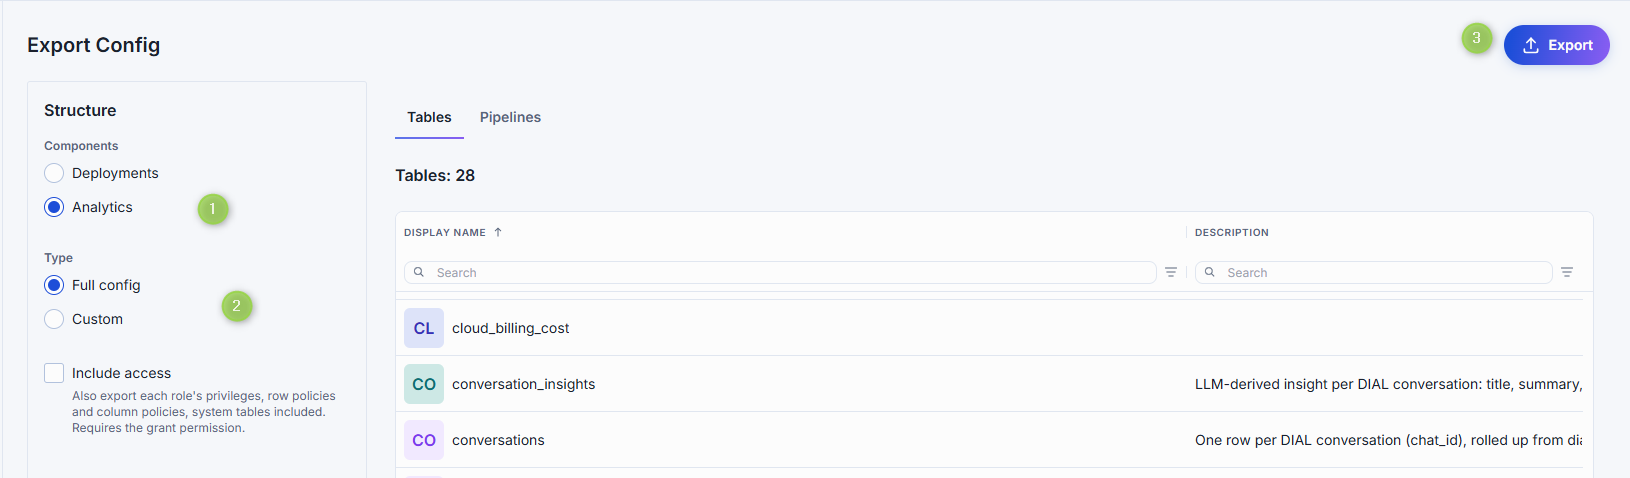
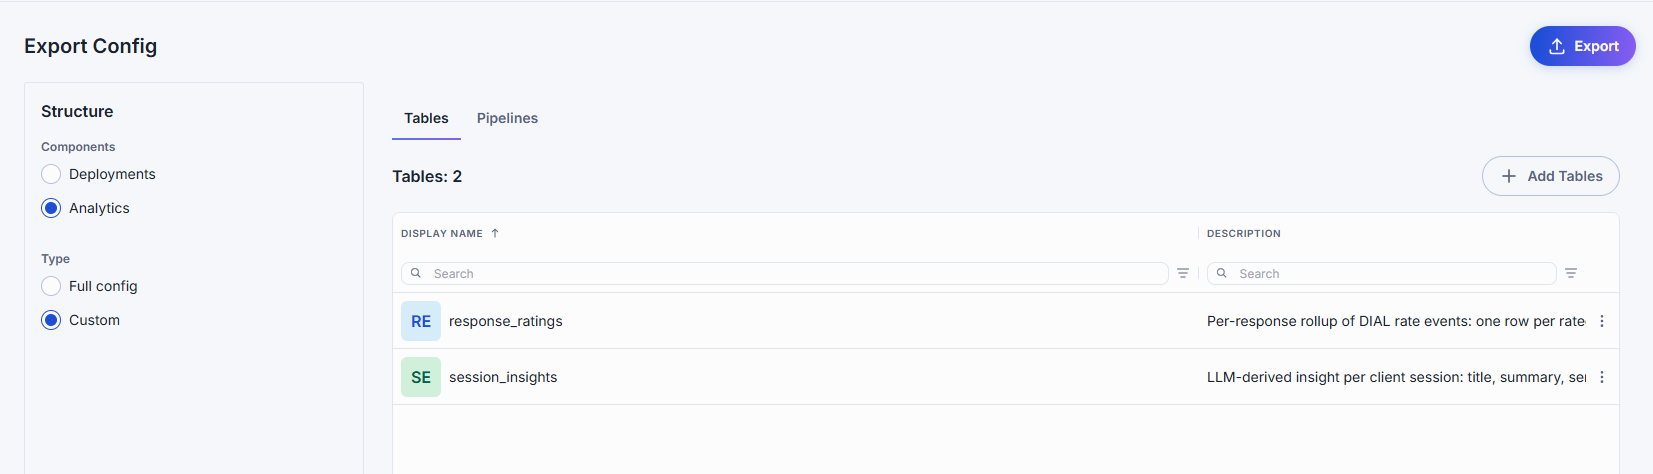
update export import section

diff --git a/docs_v2/6.administering-dial-new/1.config-backup-and-global-settings.md b/docs_v2/6.administering-dial-new/1.config-backup-and-global-settings.md
@@ -3,161 +3,203 @@ title: "Back up, restore, and set global properties"
 type: how-to
 persona: admin
 component: admin
-last_verified: 2026-10-19
+last_verified: 2026-11-26
 owner: "@dial-docs-team"
 ---
 
 # Back up, restore, and set global properties
 
-This guide covers the system-wide tasks an administrator runs from the DIAL Admin home page: exporting
-configuration for backup or migration, importing it into another environment, defining global
-interceptors, and pinning the DIAL Core version. It is for administrators with write access to DIAL
-Admin. For an orientation to the panel, start with the [Admin Panel overview](0.index.md).
+This guide explains how full administrators use the DIAL Admin home page to transfer deployment and
+Analytics configuration and set global properties. For an orientation to the panel, start with the
+[Admin Panel overview](0.index.md).
 
-Configuration import/export and manual Core-version selection depend on the optional Admin Backend.
-With direct Core access alone, those controls are unavailable; global properties still use Core
-directly. Deployments and Analytics can offer their own import/export scopes when enabled, even
-without Admin Backend. See [Optional services](../7.services/9.admin/2.configuration/1.frontend.md#optional-services)
-for the connections required by each scope. For backups through Core itself, see the
-[Configuration API export](../7.services/1.core/1.configuration/1.configuration-api.md#export-the-configuration).
+The Deployments and Analytics transfer scopes require their respective services to be enabled. See
+[Optional services](../7.services/9.admin/2.configuration/1.frontend.md#optional-services) for the
+required connections.
+
+:::caution
+These transfers cover the selected service configurations, not a complete DIAL backup. For Core
+resources, see the [Configuration API export](../7.services/1.core/1.configuration/1.configuration-api.md#export-the-configuration).
+For a broader backup strategy, see [Backup and restore](../5.operating-dial/7.production-readiness/4.backup-and-restore.md).
+:::
 
 ## Export configuration
 
-Use **Export Config** to download the full or selected configuration of the current instance — useful
-for backups, audit snapshots, or sharing with teammates.
+Use **Export Config** to download deployment or Analytics configuration for backup or migration.
+When more than one scope is enabled, select it under **Components**. Otherwise, the available scope
+opens without a component selector.
 
 ![Export Config action on the home page](img/export-config.png)
 
 ### Export deployments
 
-Export the configuration of selected deployments (model servings, images, MCP, interceptor, and
-adapter containers).
+Export selected model servings, MCP containers, interceptor containers, adapter containers,
+application containers, and images.
 
-1. Click **Export config** and select **Deployments** under **Components**.
-2. Add the deployments you want to export. You can choose to ignore or include the dependencies the
-   selected resources need to operate.
+1. Click **Export Config** and, if shown, select **Deployments** under **Components**.
+2. Select a deployment type, click its **Add** button, and select the resources to export. Repeat for
+   other deployment types. To remove a resource from the selection, use its actions menu.
 3. Click **Export** to open the **Export File Preview** window.
-   - Enable **Include secrets** to include secret values (keys, passwords, and similar) in the
-     deployment configuration.
+   - Enable **Include secrets** to include secret values, such as keys and passwords.
    - Enable **Include global firewall** to include the
-     [global domain whitelist](./3.deployments/3.images.md#global-firewall) in the configuration file.
-4. Click **Export** to download a `.zip` archive.
+     [global domain whitelist](./3.deployments/3.images.md#global-firewall).
+4. Click **Prepare file** to download a `.zip` archive.
 
 ![Export deployments configuration](img/export-deployments-config.png)
 
-### Export entities, Builders, and access management
+### Export analytics
 
-Export the configuration of selected entities (models, applications, toolsets, interceptors,
-routes), Builders (application runners, adapters, interceptor templates), and access
-management configuration (API keys and roles).
+Export Analytics table definitions, schemas, and pipelines as a JSON bundle. The bundle does not
+contain table data or access grants. Required table and pipeline dependencies are included automatically.
+System tables are listed by name and must already exist in the target environment.
 
-1. Click **Export config** and select **Entities, Builders, Access Management** under **Components**.
-2. Choose the export format:
-   - **DIAL Admin Archive** — a `.zip` archive.
-   - **DIAL Core JSON File** — a single `.json` file compatible with
-     [DIAL Core](https://github.com/epam/ai-dial-core?tab=readme-ov-file#configuration-%EF%B8%8F).
-3. Choose the export type:
-   - **Full** — use the **Resources** toggles to enable or disable specific resource categories.
-   - **Custom** — use the resource tabs to manually select which entities to include. With a custom
-     export, you can include or ignore dependencies (adapters, interceptors, applications,
-     application runners, and similar) that the selected resources need.
-4. Use **Topics** to filter resources by associated topic.
-5. Click **Export** to open the **Export File Preview** window, where you can preview your selections
-   and any included dependencies, and enable **Include secrets**.
-6. Review your selection and click **Export** to download a `.zip` archive.
+1. Click **Export Config** and, if shown, select **Analytics** under **Components**.
+2. Select **Full config** to export all exportable resources, or **Custom** to select resources.
+   For a custom export, open **Tables** or **Pipelines**, click its **Add** button, and select
+   resources. Use a resource's actions menu to remove it from the selection.
+3. Click **Export** and review the preview:
+   - **Objects**: selected objects and their included dependencies, with reasons for inclusion.
+   - **Required system tables**: system tables that must exist in the target environment.
+   - **Skipped**: objects excluded from the export and the reasons.
+4. Click **Export** to download the JSON bundle. The export button becomes available after the
+   service accepts the preview.
 
-![Export entities configuration](img/export-entities-config.png)
+![Export Analytics configuration](img/export-analytics.png)
 
 ## Import configuration
 
-Use **Import Config** to upload a configuration file when migrating between environments or restoring
-a backup.
+Use **Import Config** to restore or migrate deployment or Analytics configuration. If more than one
+scope is enabled, choose it under **Components**. Otherwise, the available scope opens directly.
 
 ![Import Config action on the home page](img/import-config.png)
 
-1. Click **Import Config** to open the import screen.
-2. In the **Files** section, make the following selections:
+:::note
+Import and export require full administrator access and at least one enabled supporting service.
+:::
 
-   ![Import configuration file selection](img/import-config-files.png)
+### Import deployments
 
-   - **Components** — choose to import the configuration of deployments (model servings, images, MCP,
-     interceptor, and adapter containers), entities (models, applications, toolsets, interceptors,
-     routes), Builders (application runners, adapters, interceptor templates), and access management
-     (API keys and roles).
-   - **Conflict resolution** — choose a strategy for conflicts between imported and existing files:
-     - **Override** — any resource in the archive that matches an existing one by identifier replaces
-       it.
-     - **Skip** — any resource in the archive that matches an existing one by identifier is ignored,
-       and the current resource is unchanged.
-   - **File type** — choose to import a DIAL Core `.json` file or a `.zip` archive.
-3. Add a file or archive in the **Files** section, then continue to the **Configuration** step to
-   preview all resources being imported. Resources with validation errors (such as schema
-   mismatches or uniqueness conflicts) are flagged in the preview before import begins. When the
-   archive includes a global firewall configuration, firewall validation errors are grouped by
-   domain for easier review.
+1. Click **Import Config** and, if shown, select **Deployments** under **Components**.
+2. Choose a **Conflict resolution** strategy:
+   - **Override** replaces matching resources with the imported versions.
+   - **Skip** retains matching resources in the target environment.
+3. Add one deployment `.zip` archive and click **Next**.
+4. Review the resources and their validation state in **Configuration**. Validation errors block the
+   import. If the archive includes global firewall settings, errors are grouped by domain.
 
-   ![Import configuration preview](img/import-configuration-preview.png)
+   ![Deployments import preview](img/import-configuration-preview.png)
 
-4. For each resource, click **Compare changes** in the actions menu to compare the current version
-   with the version to be imported.
+5. For an archive containing a global firewall, open **Global Firewall** and click **Compare changes**
+   to compare the imported and current domain lists.
 
-   ![Compare changes during import](img/compare-changes.png)
+   ![Compare global firewall changes](img/compare-changes.png)
 
-5. Click **Import** to start the import.
+6. Click **Import**.
 
-**Note**
-> Import and export controls are disabled for read-only administrators. See
-> [Read-only access](0.index.md#read-only-access).
+### Import analytics
 
-## Set global interceptors {#system-properties}
+1. Click **Import Config** and, if shown, select **Analytics** under **Components**.
+2. Choose a **Conflict resolution** strategy:
+   - **Fail if exists** blocks the import when a bundled user table or pipeline already exists.
+   - **Skip if exists** retains existing user tables and pipelines instead of replacing them. Other
+     validation errors can still block the import.
+3. Add one Analytics `.json` bundle and click **Next**.
 
-Click the **Globe** icon in the footer, or in **Quick Actions** on the home page, to open the
-**System Properties** screen, where you add and configure global interceptors.
+   ![Analytics import file selection](img/import-analytics.png)
 
-![System Properties screen](img/system_properties.png)
+4. Review **Tables**, **Pipelines**, and **Required system tables** in the preview. Review validation
+   errors, conflicts, and values copied from the source environment. Where an existing object is
+   available, use **Compare changes** in its actions menu.
+5. Resolve errors before importing. If pipeline names were previously used in the target environment,
+   confirm whether to import them.
+6. Click **Import** and check the result:
+   - On success, imported pipelines are disabled and imported tables have no access grants. Enable
+     the pipelines and configure access in the target environment.
+   - If an import fails, the result can report a rollback or that some created objects could not be
+     removed.
 
-Global interceptors apply to every deployment — applications and models — in DIAL. When local
-interceptors are also configured for a specific model or application, global interceptors process each
-request first, before the local interceptors, and review the response after the local interceptors
-have processed it.
+## Set global properties {#system-properties}
 
-To add a global interceptor:
+Click **System Properties** in **Quick Actions** on the home page, or the **Globe** icon in the
+footer. The screen contains Global Interceptors, Rate Limit Schedule, and Spending Limits.
 
-1. Click **+ Add** on the **System Properties** screen.
-2. Select from the list of available [interceptors](./6.governance/4.interceptors.md).
-3. Click **Apply** to add the interceptor. Repeat to add more. When there is more than one, drag and
-   drop to set the execution order. Interceptors run in ascending order (1 → 2 → 3). Requests flow
-   through them in this order; response interceptors run in reverse.
-4. Click **Save** to apply, or **Discard** to cancel unsaved changes.
+![System Properties action on the home page](img/system_properties.png)
 
-When a global interceptor is added, its status in [Entities > Interceptors](./6.governance/4.interceptors.md)
-changes to **Global**, and it is listed under the **Global Interceptors** tab in the configuration of
-any application or model.
+**Save** and **Discard** appear after you change a setting. **Discard** opens a confirmation before
+removing unsaved changes. **Save** is disabled while a schedule or spending-limits field is invalid,
+even if the invalid field is on another tab.
 
-![Global interceptors listed on an entity](img/global-interceptors.png)
+:::warning
+Before saving System Properties for the first time, check whether global settings are defined in
+DIAL Core's configuration files. If no API-managed global settings exist, this screen does not load
+those file-defined values. Saving creates an API-managed record that takes precedence over all four
+file-defined global settings: interceptors, retriable error codes, the rate limit schedule, and
+spending limits. Omitted values use defaults, which can change the behavior of the deployment.
 
-## Set the DIAL Core version
+Ask the platform team to check `GET /v1/settings/platform/global`. A `404` means no API-managed record
+exists. The file-defined values are available through `GET /v1/admin/config/file/settings/global`.
+Before saving, coordinate with the platform team to preserve the required values through the
+Configuration API, including retriable error codes, which this screen cannot edit. See
+[Global settings](../7.services/1.core/1.configuration/14.global-settings.md#where-global-settings-are-defined).
+:::
 
-Administrators can set the DIAL Core version manually to resolve compatibility issues that can arise
-during upgrades.
+### Global interceptors
 
-1. Click the **Edit** icon in the footer next to the Core version.
-2. In the pop-up, enter the desired
-   [DIAL Core version](https://github.com/epam/ai-dial-core/releases) manually, or choose to detect
-   it automatically.
-3. Click **Apply**. The updated version appears in the footer.
+Global interceptors apply to every application and model deployment in DIAL. They process requests
+before local interceptors and responses after local interceptors.
 
-![Set the DIAL Core version](img/core-version.png)
+1. Select **Global Interceptors** and click **+ Add**.
+2. Select existing [interceptors](./6.governance/4.interceptors.md) and click **Apply**.
+3. Drag interceptors to set their order, or remove an interceptor from its actions menu. Requests run
+   through the list in ascending order; responses run in reverse order.
+4. Click **Save** to apply the changes, or **Discard** to cancel them.
+
+![Global interceptors in System Properties](img/global-interceptors.png)
+
+Global interceptors are also listed in the interceptor configuration of each application or model.
+
+### Rate limit schedule
+
+The schedule sets calendar boundaries for role-based daily, weekly, and monthly limits.
+
+1. Select **Rate Limit Schedule**.
+2. Select a **Timezone**; the list is searchable. Select the **Week start day** and enter a
+   **Reset time**, or use the time picker. The defaults are UTC, Monday, and `00:00`. The reset time
+   uses 24-hour `HH:mm` format.
+3. Click **Save** to apply the changes, or **Discard** and confirm to cancel them.
+
+![Rate limit schedule](img/rate-limit-schedule.png)
+
+### Spending limits
+
+Spending limits determine whether Core uses role cost limits or budgets for model calls by users
+signed in through an identity provider. API-key callers continue to use role cost limits.
+
+1. Select **Spending Limits** and choose a **Mode**:
+   - **Off**: use role cost limits.
+   - **Shadow**: check and charge budgets without rejecting calls on budget grounds; role cost limits
+     still apply.
+   - **Enforce**: use budgets instead of role cost limits for identity-based model calls. A call is
+     rejected if no budget can pay for it.
+2. Set the **Default cost object** used when a call does not specify a project. The default is `ORG`.
+3. Click **Save** to apply the changes, or **Discard** to cancel them.
+
+![Spending limits](img/spending-limits.png)
+
+See [Spending limits](../7.services/1.core/1.configuration/14.global-settings.md#spending-limits) for
+mode behavior and configuration details.
 
 ## Change user settings
 
-Click your avatar or name in the top-right corner of the header to open the profile menu, where you
-can sign in or out and select a UI theme.
+Click your avatar in the top-right corner to open the profile menu. When themes are available, select
+**Settings**, choose a theme, and click **Save**. When authentication is enabled, the menu also offers
+sign-in or sign-out.
 
-![User settings menu](img/user-settings.png)
+![User settings dialog](img/user-settings.png)
 
 ## Further reading
 
+- [Global settings](../7.services/1.core/1.configuration/14.global-settings.md) — Core configuration, precedence, schedules, and spending limits
 - [Manage interceptors](./6.governance/4.interceptors.md) — register interceptors and attach them in DIAL Admin
 - [Configuration API](../7.services/1.core/1.configuration/1.configuration-api.md) — manage Core configuration entities while Core runs
 - [Admin Frontend configuration](../7.services/9.admin/2.configuration/1.frontend.md) — environment variables of the Admin Frontend server
